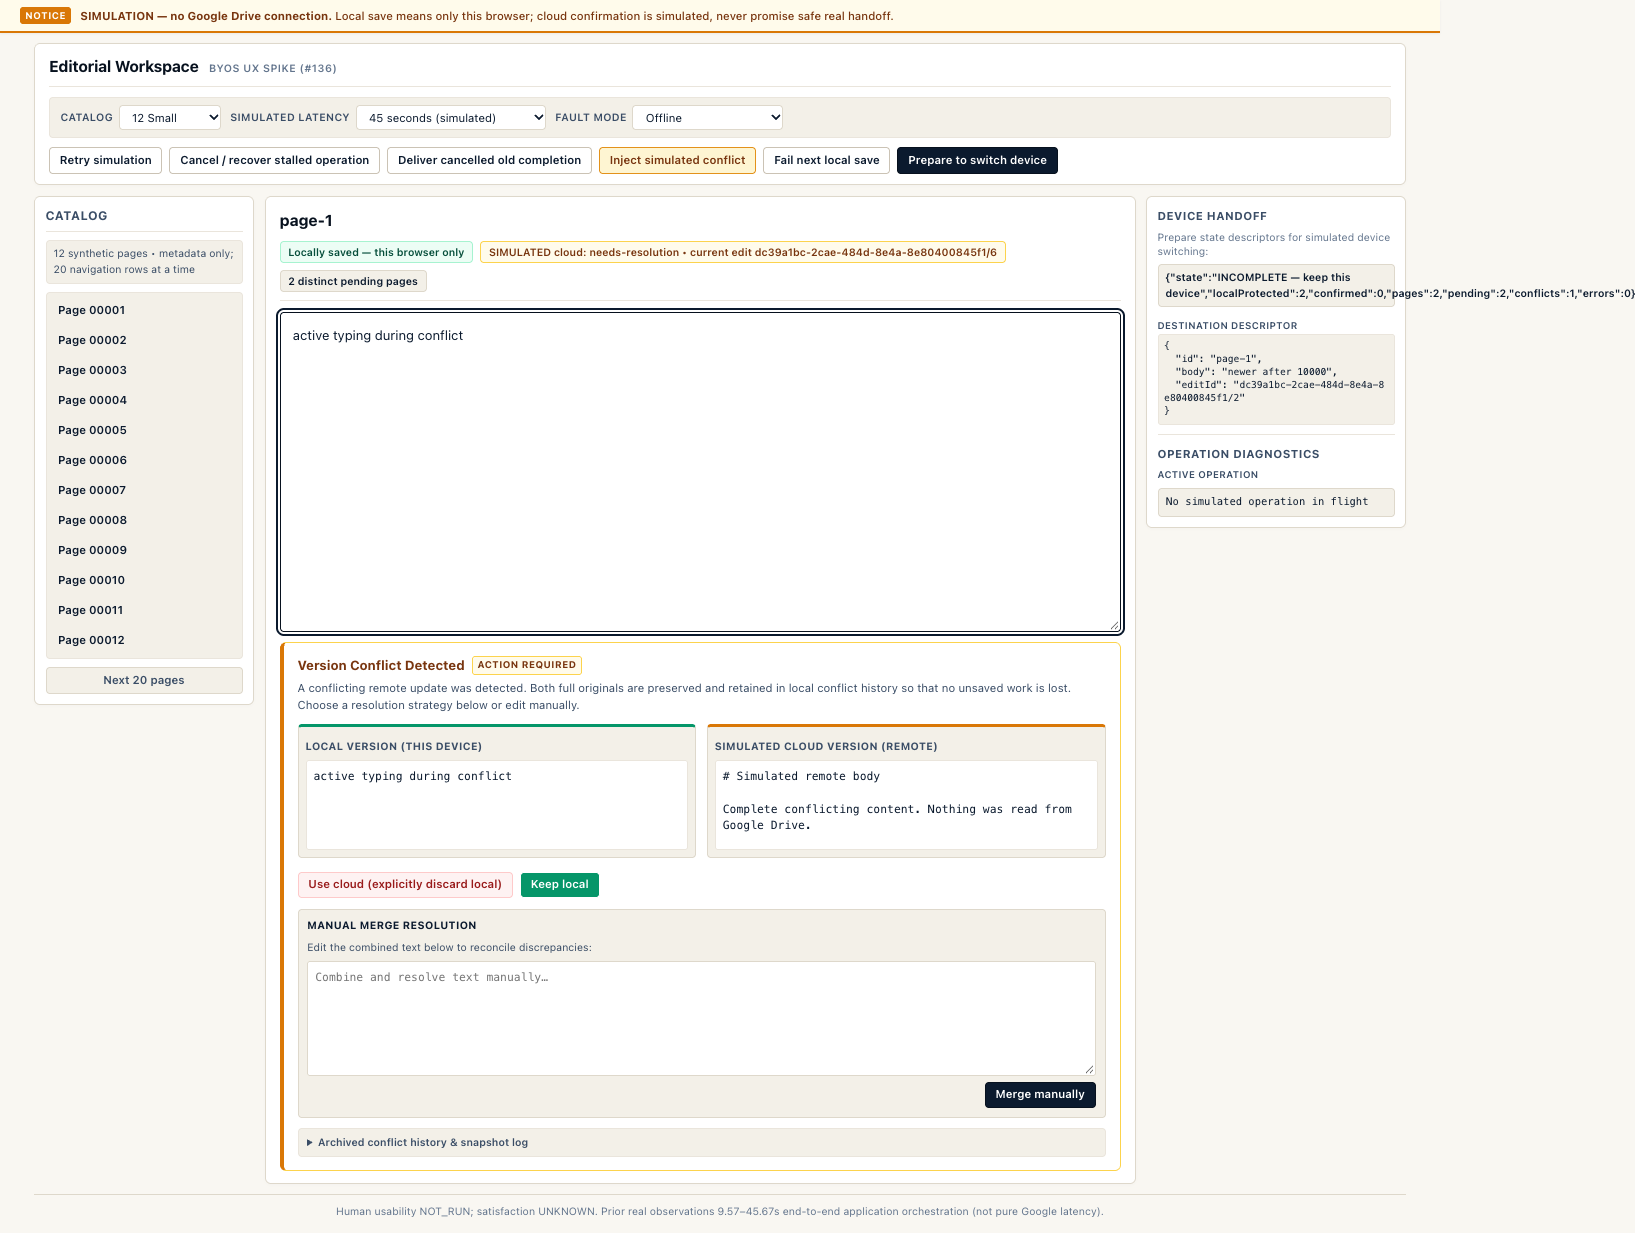
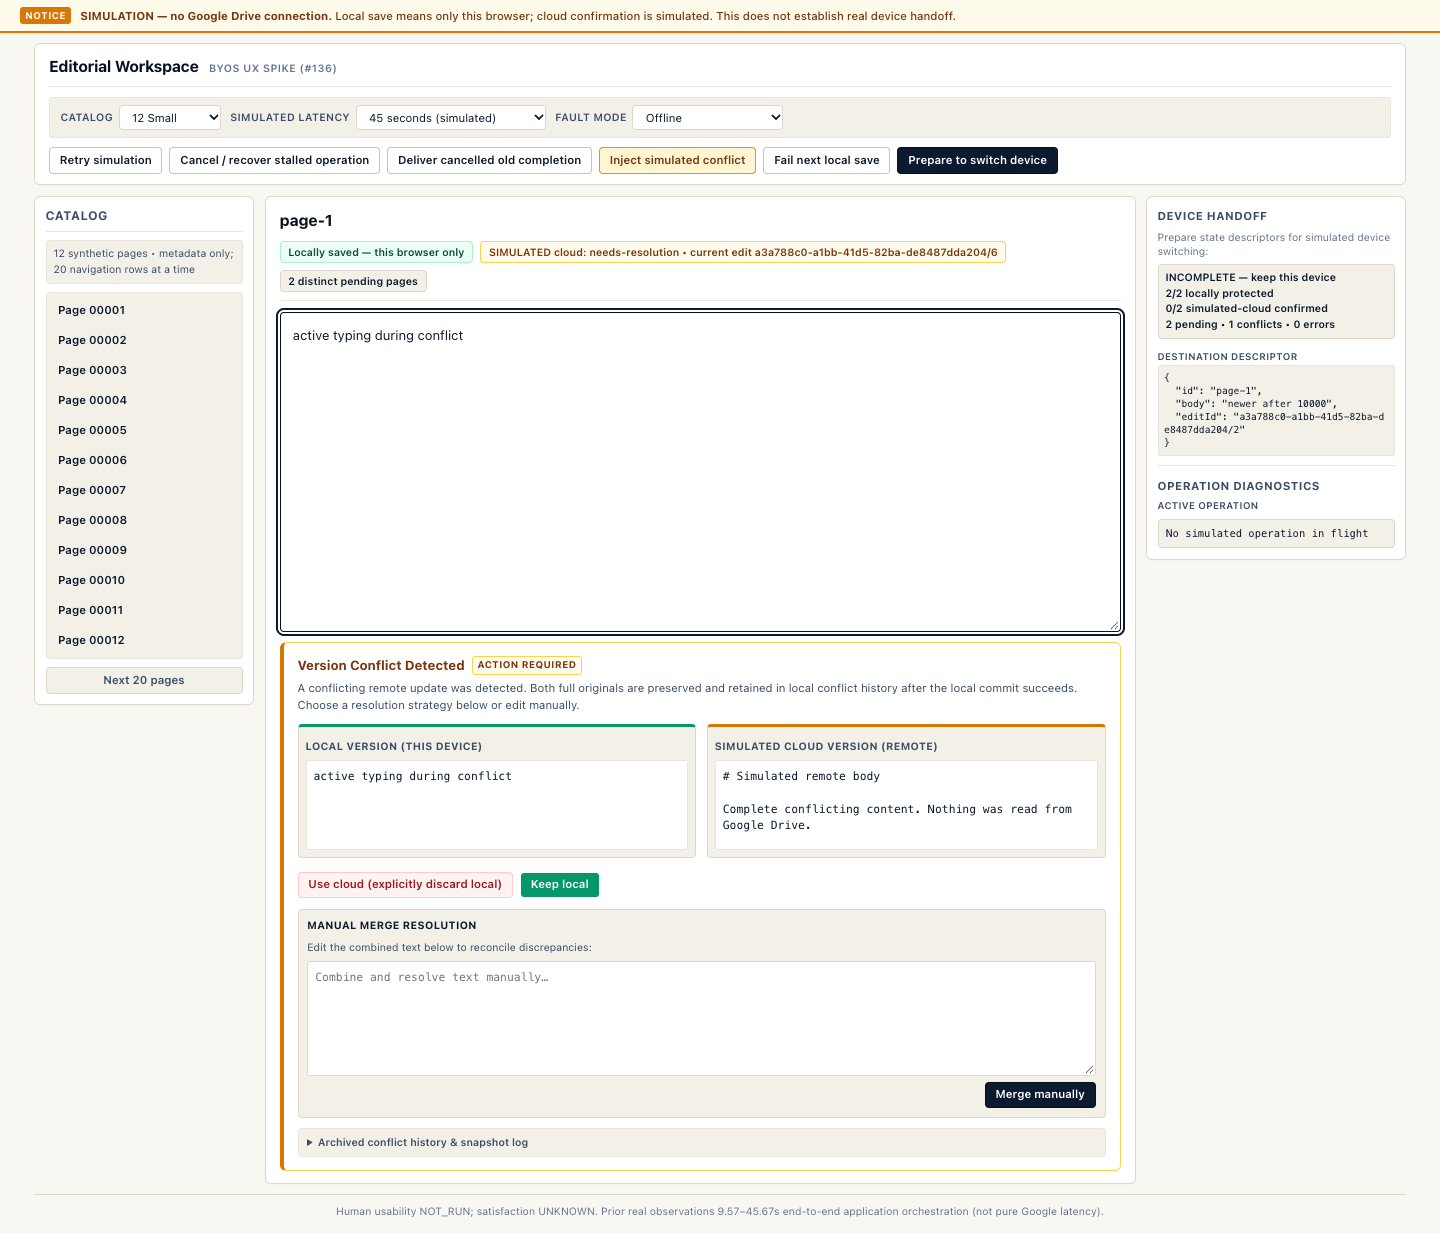
fix(byos-ux): serialize catalog ownership and verify delayed switches

diff --git a/docs/sessions/20261026-tools136-byos-ux/task.md b/docs/sessions/20261026-tools136-byos-ux/task.md
@@ -15,3 +15,9 @@ replay final candidate browser evidence after repair. Independent review underwa
 Native full Gatekeeper precursor PASS (exit 0). Reviewer identified hidden archive
 presentation; moved archived full conflict history outside the active-conflict panel
 so explicit resolution does not make retained originals inaccessible.
+Independent review REQUEST_CHANGES: overlapping asynchronous catalog starts could
+release another start's writer lock and install stale catalog. Lead repair serializes
+catalog initialization and awaits prior lock disposal. Focused Chrome regression PASS
+with delayed IndexedDB reads and four overlapping size switches; a second tab is
+correctly refused. All three UI resolutions expose archived complete originals;
+1280px layout has no horizontal overflow. Final full browser replay pending.
